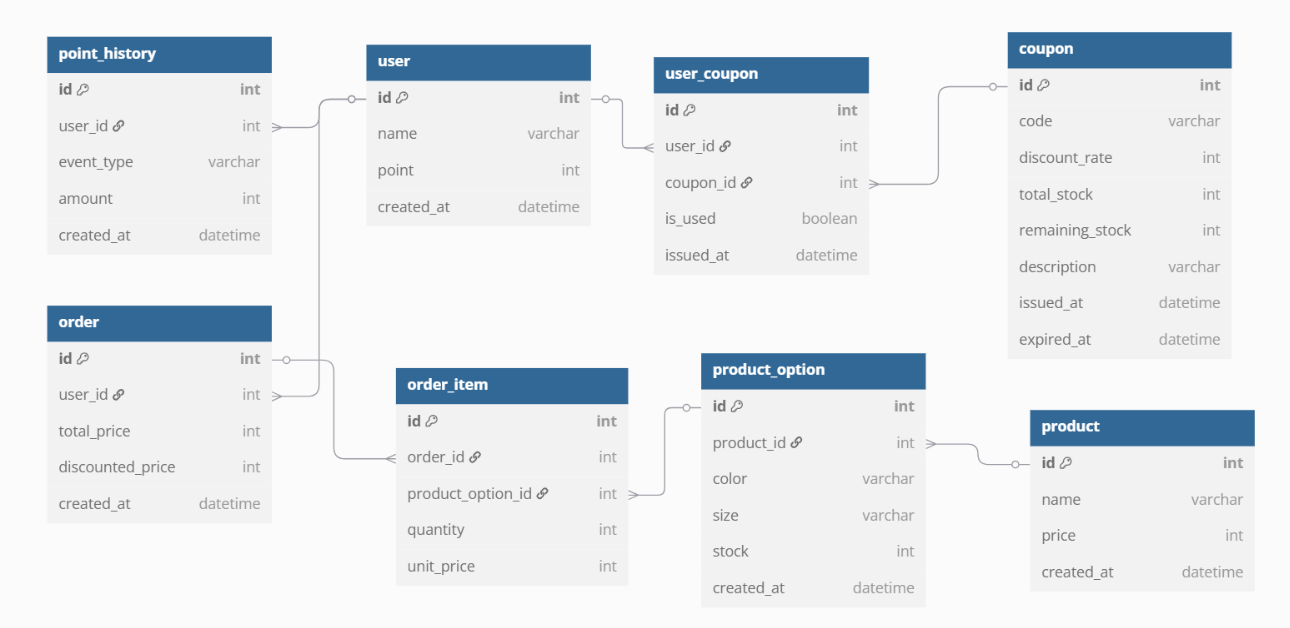
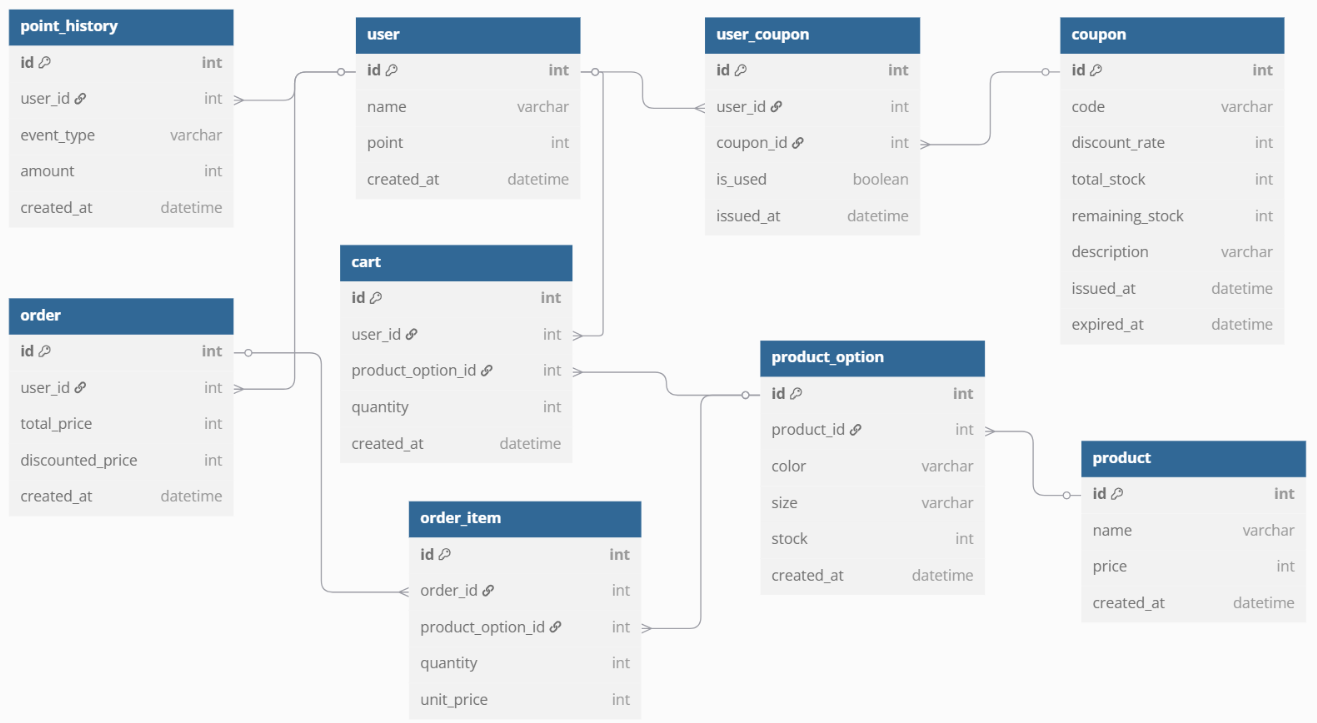
[Docs] ERD 수정: cart(장바구니) 추가

diff --git a/docs/05_Erd.md b/docs/05_Erd.md
@@ -86,6 +86,19 @@
 
 ---
 
+### 🛒 cart (장바구니)
+
+| 컬럼명             | 타입      | 설명                                        |
+|--------------------|-----------|---------------------------------------------|
+| id                 | int       | 장바구니 항목 ID (PK)                       |
+| user_id            | int       | 사용자 ID (`user` 테이블 참조)              |
+| product_option_id  | int       | 상품 옵션 ID (`product_option` 테이블 참조) |
+| quantity           | int       | 담은 수량                                   |
+| created_at         | datetime  | 장바구니에 담은 시각                         |
+
+---
+
+
 ### 🧾 order (주문)
 
 | 컬럼명           | 타입      | 설명                           |
@@ -109,6 +122,8 @@
 | unit_price        | int       | 단가                                        |
 
 ---
+
+
 
 
 ### * 다이어그램 도구: [https://dbdiagram.io/](https://dbdiagram.io/)
@@ -161,6 +176,14 @@ Table product_option {
   size varchar // 사이즈
   stock int // 재고 수량
   created_at datetime // 등록일
+}
+
+Table cart {
+  id int [pk, increment] // 장바구니 항목 ID
+  user_id int [ref: > user.id] // 사용자 ID
+  product_option_id int [ref: > product_option.id] // 담은 옵션 ID
+  quantity int // 수량
+  created_at datetime // 담은 시각
 }
 
 Table order {
